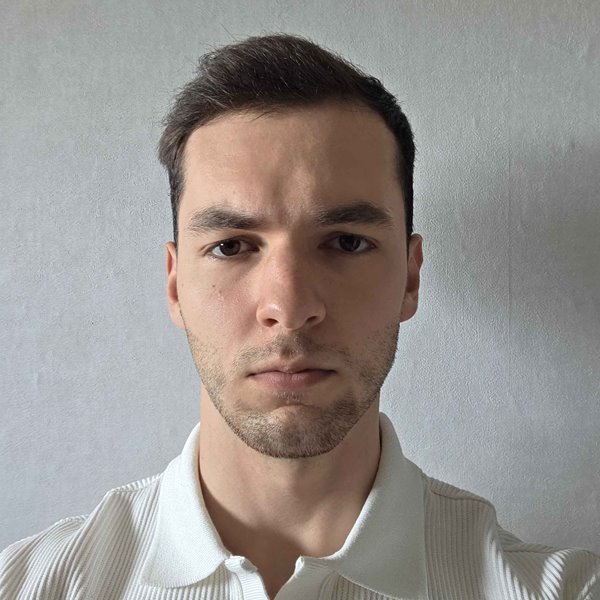
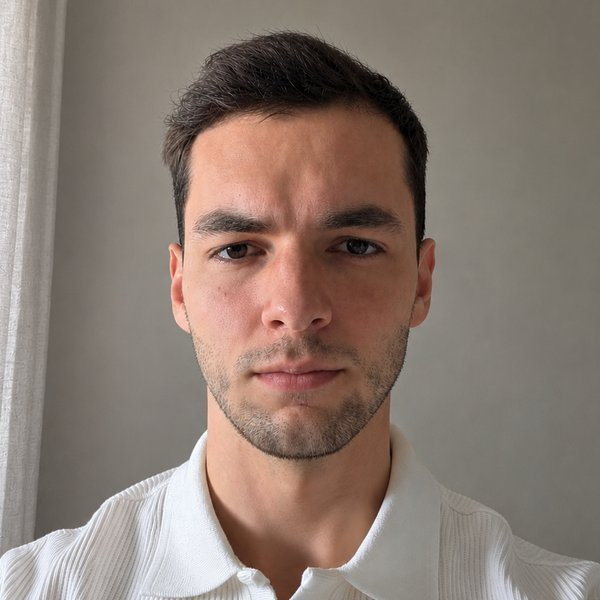
Nouvelle photo de profil et homelab détaillé avec schéma d'architecture
- Photo du CV remplacée par le nouveau portrait (même recadrage carré, 600 px, 44 Ko) et avatar GitHub 460 px
- Carte Homelab de l'accueil : schéma SVG du lab (pfSense, VLAN, Proxmox VE, NAS, supervision) et détail des services
- CV : homelab détaillé, texte resserré pour rester sur une page

Claude-Session: https://claude.ai/code/session_011uxeZQLth1jAKhx57pNUS4

diff --git a/index.html b/index.html
@@ -423,12 +423,47 @@
 
               <article class="projet projet--homelab" data-categories="infra" data-revele>
                 <div class="projet__carte">
-                  <div class="projet__media projet__media--attente" aria-hidden="true"><span>En cours</span></div>
+                  <div class="projet__media projet__media--schema">
+                    <!-- Schéma de l'architecture du homelab : pfSense en tête, VLAN, hôte Proxmox VE, NAS et supervision -->
+                    <svg class="schema-lab" viewBox="0 0 320 200" role="img" aria-labelledby="schema-lab-titre">
+                      <title id="schema-lab-titre">Architecture du homelab : Internet et le VPN WireGuard arrivent sur le pare-feu pfSense, qui distribue des VLAN segmentés vers l'hyperviseur Proxmox VE (VM Windows Server avec Active Directory, conteneurs LXC Debian, Docker avec Portainer et Nginx Proxy Manager, DNS Pi-hole), le NAS de sauvegarde et la supervision Uptime Kuma et Grafana</title>
+                      <!-- Liens -->
+                      <path class="schema-lab__lien" d="M84 21H124M236 21H196M160 34V50M60 50H272M120 50V62M272 50V62M272 118V130M224 90H236"/>
+                      <path class="schema-lab__flux" d="M84 21H124"/><path class="schema-lab__flux" d="M236 21H196"/>
+                      <path class="schema-lab__flux" d="M160 34V50H120V62"/><path class="schema-lab__flux" d="M160 50H272V62"/>
+                      <path class="schema-lab__flux" d="M224 90H236"/>
+                      <!-- Entrées : Internet, pfSense, WireGuard -->
+                      <rect class="schema-lab__noeud" x="12" y="8" width="72" height="26" rx="5"/>
+                      <rect class="schema-lab__coeur" x="124" y="8" width="72" height="26" rx="5"/>
+                      <rect class="schema-lab__noeud" x="236" y="8" width="72" height="26" rx="5"/>
+                      <text x="48" y="25">Internet</text>
+                      <text class="schema-lab__blanc" x="160" y="25">pfSense</text>
+                      <text x="272" y="25">WireGuard</text>
+                      <text class="schema-lab__petit" x="88" y="46">VLAN segmentés</text>
+                      <!-- Hôte Proxmox VE et ses machines -->
+                      <rect class="schema-lab__hote" x="12" y="62" width="212" height="130" rx="8"/>
+                      <text class="schema-lab__titre" x="118" y="77">Proxmox VE</text>
+                      <rect class="schema-lab__noeud" x="20" y="84" width="96" height="46" rx="4"/>
+                      <rect class="schema-lab__noeud" x="120" y="84" width="96" height="46" rx="4"/>
+                      <rect class="schema-lab__noeud" x="20" y="138" width="96" height="46" rx="4"/>
+                      <rect class="schema-lab__noeud" x="120" y="138" width="96" height="46" rx="4"/>
+                      <text x="68" y="104">Windows Server</text><text class="schema-lab__petit" x="68" y="118">VM · AD de lab</text>
+                      <text x="168" y="104">Debian</text><text class="schema-lab__petit" x="168" y="118">conteneurs LXC</text>
+                      <text x="68" y="158">Docker</text><text class="schema-lab__petit" x="68" y="172">Portainer · NPM</text>
+                      <text x="168" y="158">Pi-hole</text><text class="schema-lab__petit" x="168" y="172">DNS</text>
+                      <!-- NAS et supervision -->
+                      <rect class="schema-lab__noeud" x="236" y="62" width="72" height="56" rx="5"/>
+                      <rect class="schema-lab__noeud" x="236" y="130" width="72" height="62" rx="5"/>
+                      <text x="272" y="86">NAS</text><text class="schema-lab__petit" x="272" y="100">sauvegardes</text>
+                      <text x="272" y="150">Supervision</text><text class="schema-lab__petit" x="272" y="164">Uptime Kuma</text><text class="schema-lab__petit" x="272" y="177">Grafana</text>
+                    </svg>
+                  </div>
                   <div class="projet__corps">
                     <p class="projet__meta"><span>Systèmes &amp; réseaux</span><time>En cours</time></p>
                     <h3>Homelab</h3>
-                    <p>Mise en place d'un homelab personnel pour pratiquer l'administration systèmes et réseaux.</p>
-                    <p class="projet__encours">Projet en cours, détails à venir</p>
+                    <p>Mon lab pour pratiquer l'administration systèmes et réseaux : hyperviseur Proxmox VE (VM et LXC Debian), pare-feu pfSense avec VLAN segmentés, Active Directory de lab sous Windows Server, Docker avec Portainer et Nginx Proxy Manager, DNS Pi-hole, VPN WireGuard, supervision Uptime Kuma / Grafana, NAS et sauvegardes.</p>
+                    <ul class="projet__tags"><li>Proxmox VE</li><li>pfSense</li><li>Docker</li><li>WireGuard</li></ul>
+                    <p class="projet__encours">En cours d'évolution</p>
                   </div>
                 </div>
               </article>

diff --git a/cv.html b/cv.html
@@ -103,7 +103,7 @@
 
         <!-- Gauche, haut : photo et coordonnées -->
         <div class="cv-identite" data-revele>
-          <img class="cv-photo" src="img/cv/photo-yanis.jpg" width="600" height="600" alt="Photo de Yanis Poulain, portrait de face sur fond clair" />
+          <img class="cv-photo" src="img/cv/photo-yanis.jpg" width="600" height="600" alt="Photo de Yanis Poulain, portrait de face en polo blanc sur fond gris" />
           <ul class="cv-contacts">
             <li><svg class="icone" aria-hidden="true"><use href="#i-mail"/></svg><a href="mailto:y.poulain04@gmail.com">y.poulain04@gmail.com</a></li>
             <li><svg class="icone" aria-hidden="true"><use href="#i-tel"/></svg><a href="tel:+33763531310">07 63 53 13 10</a></li>
@@ -196,8 +196,8 @@
                 <p>Résolution de machines et challenges CTF. Apprentissage des vulnérabilités web et système, bases en sécurité offensive et défensive.</p>
               </li>
               <li data-revele>
-                <h3>Homelab personnel — en cours</h3>
-                <p>Mise en place d'un homelab pour pratiquer l'administration systèmes et réseaux. Projet en cours, détails à venir.</p>
+                <h3>Homelab personnel — en cours d'évolution</h3>
+                <p>Proxmox VE (VM, LXC Debian), pfSense avec VLAN segmentés, AD de lab sous Windows Server, Docker / Portainer, Nginx Proxy Manager, DNS Pi-hole, VPN WireGuard, Uptime Kuma / Grafana, NAS et sauvegardes.</p>
               </li>
             </ul>
           </section>
@@ -213,7 +213,7 @@
                   <ul class="cv-puces">
                     <li>Administration systèmes et réseaux : Active Directory (droits, OU, GPO), sauvegardes serveurs Veeam, Hyper-V, Microsoft 365 (comptes, licences).</li>
                     <li>Déploiement de postes (MDT), imprimantes réseau, brassage / câblage ; support utilisateurs N1, GLPI, plans de maintenance.</li>
-                    <li><strong>Maison du Don Rennes Longchamps</strong> — chef de projet du volet informatique de l'ouverture du nouveau site : déploiement des postes, imprimantes, réseau et automates ; coordination des prestataires et des équipes ; suivi des commandes, directives, recettes et mise en service.</li>
+                    <li><strong>Maison du Don Rennes Longchamps</strong> — chef de projet informatique de l'ouverture du site : postes, imprimantes, réseau et automates ; coordination prestataires et équipes ; suivi des commandes, directives, recettes et mise en service.</li>
                   </ul>
                 </li>
                 <li class="etape" data-revele>
@@ -257,7 +257,7 @@
                 <li class="etape" data-revele>
                   <h3>Licence informatique, 1<sup>re</sup> année</h3>
                   <p class="etape__lieu"><span class="etape__date">2024</span> Université de Rennes 1 — ISTIC, Rennes</p>
-                  <p class="etape__texte">Algorithmique, bases de données, développement web, réseaux, génie logiciel. Après cette première année, réorientation vers le BTS SIO en alternance.</p>
+                  <p class="etape__texte">Algorithmique, bases de données, développement web, réseaux, génie logiciel ; puis réorientation vers le BTS SIO en alternance.</p>
                 </li>
                 <li class="etape" data-revele>
                   <h3>Baccalauréat général — spécialités Mathématiques et NSI</h3>

diff --git a/css/style.css b/css/style.css
@@ -3963,7 +3963,7 @@ button.visite__compteur:hover, button.visite__compteur:focus-visible { border-co
    13. Projets Jarvis (mis en avant) et Homelab (en cours) — accueil
    ========================================================================== */
 .projet--jarvis { --accent: #0891b2; }
-.projet--homelab { --accent: #475569; }
+.projet--homelab { --accent: #0f766e; }
 .projet__media--jarvis { background: #0b1418; }
 .projet__media--jarvis img { object-position: left top; }
 /* Grille classique : Jarvis occupe deux colonnes, image à gauche et texte à droite (pas dans le carrousel 3D) */
@@ -3985,24 +3985,35 @@ button.visite__compteur:hover, button.visite__compteur:focus-visible { border-co
   letter-spacing: 0.06em;
   text-transform: uppercase;
 }
-/* Homelab : carte sobre, sans image */
-.projet__media--attente {
-  display: grid;
-  place-items: center;
-  background: repeating-linear-gradient(135deg, var(--surface-2) 0 12px, var(--fond) 12px 24px);
+/* Homelab : schéma SVG de l'architecture du lab (mêmes codes que le schéma Maison du Don) */
+.schema-lab { width: 100%; height: 100%; padding: 3%; }
+.schema-lab__lien { fill: none; stroke: var(--ligne); stroke-width: 2; }
+.schema-lab__flux {
+  fill: none;
+  stroke: var(--accent);
+  stroke-width: 2.5;
+  stroke-linecap: round;
+  stroke-dasharray: 6 18;
+  animation: flux 1.6s linear infinite;
 }
-.projet__media--attente span {
-  padding: 6px 14px;
-  border: 1px dashed var(--encre-3);
-  border-radius: 999px;
-  background: var(--surface);
+.schema-lab__coeur { fill: var(--accent); }
+.schema-lab__noeud { fill: var(--surface); stroke: var(--encre); stroke-width: 1.5; }
+.schema-lab__hote {
+  fill: color-mix(in srgb, var(--accent) 8%, transparent);
+  stroke: var(--accent);
+  stroke-width: 1.5;
+  stroke-dasharray: 5 4;
+}
+.schema-lab text {
   font-family: var(--police-mono);
-  font-size: 0.8rem;
-  letter-spacing: 0.08em;
-  text-transform: uppercase;
-  color: var(--encre-2);
+  font-size: 10px;
+  font-weight: 600;
+  fill: var(--encre);
+  text-anchor: middle;
 }
-.projet--homelab .projet__carte { border-style: dashed; }
+.schema-lab text.schema-lab__petit { font-size: 8.5px; font-weight: 400; fill: var(--encre-2); }
+.schema-lab text.schema-lab__titre { fill: var(--accent); font-size: 10.5px; }
+.schema-lab text.schema-lab__blanc { fill: #fff; }
 .projet__encours {
   display: inline-flex;
   align-items: center;
